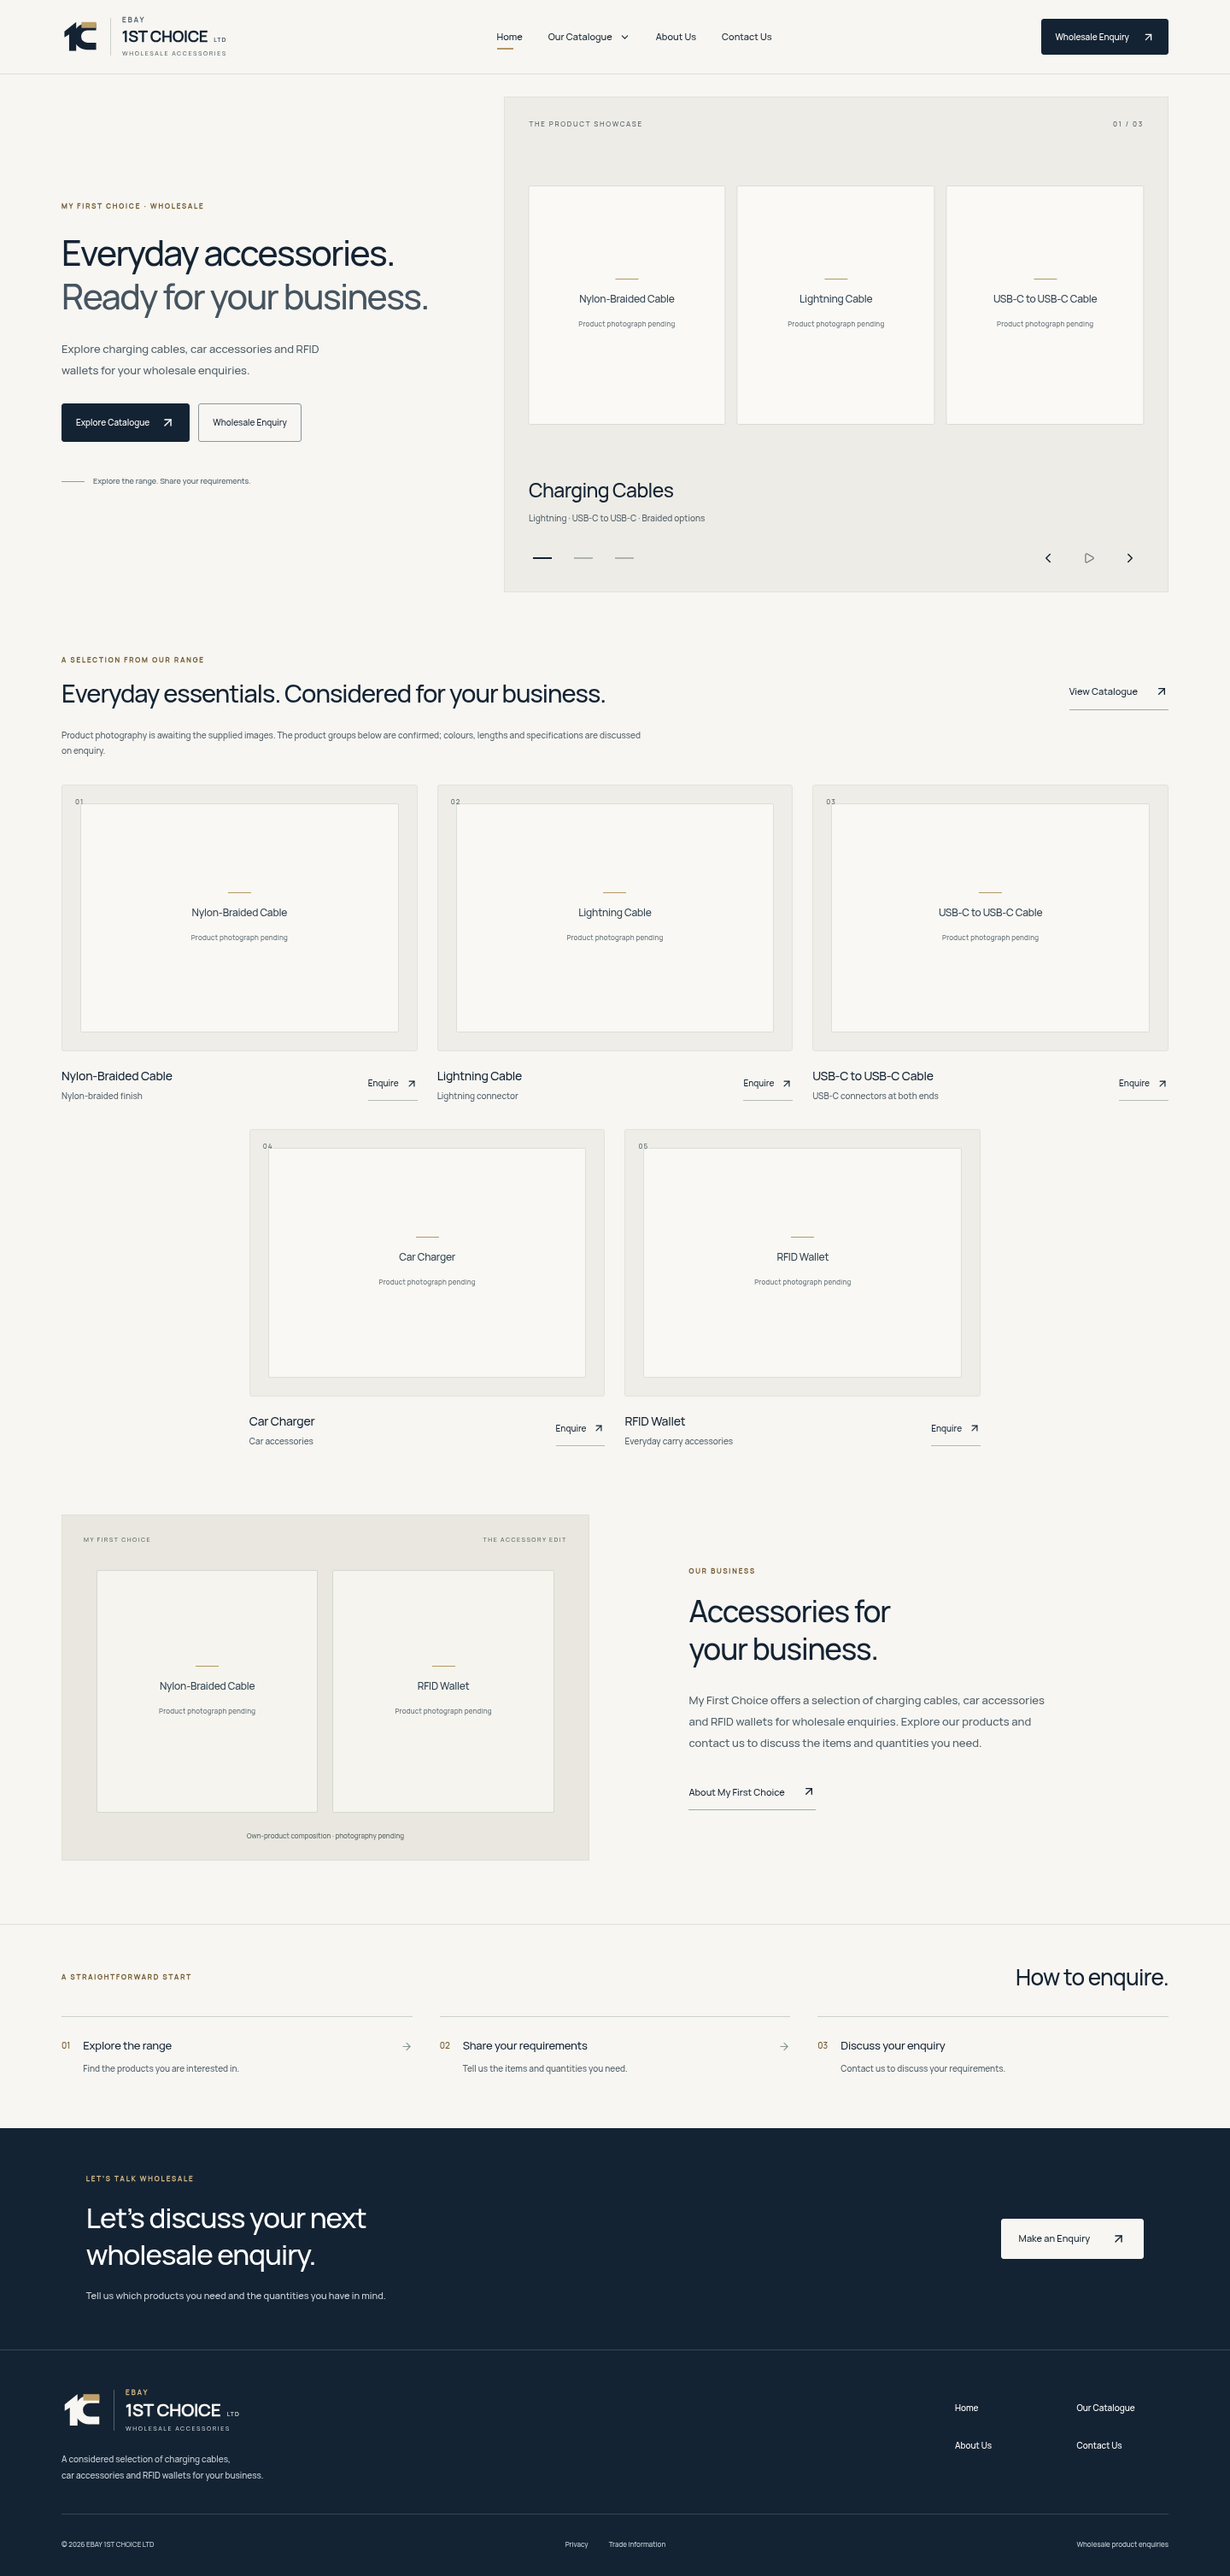
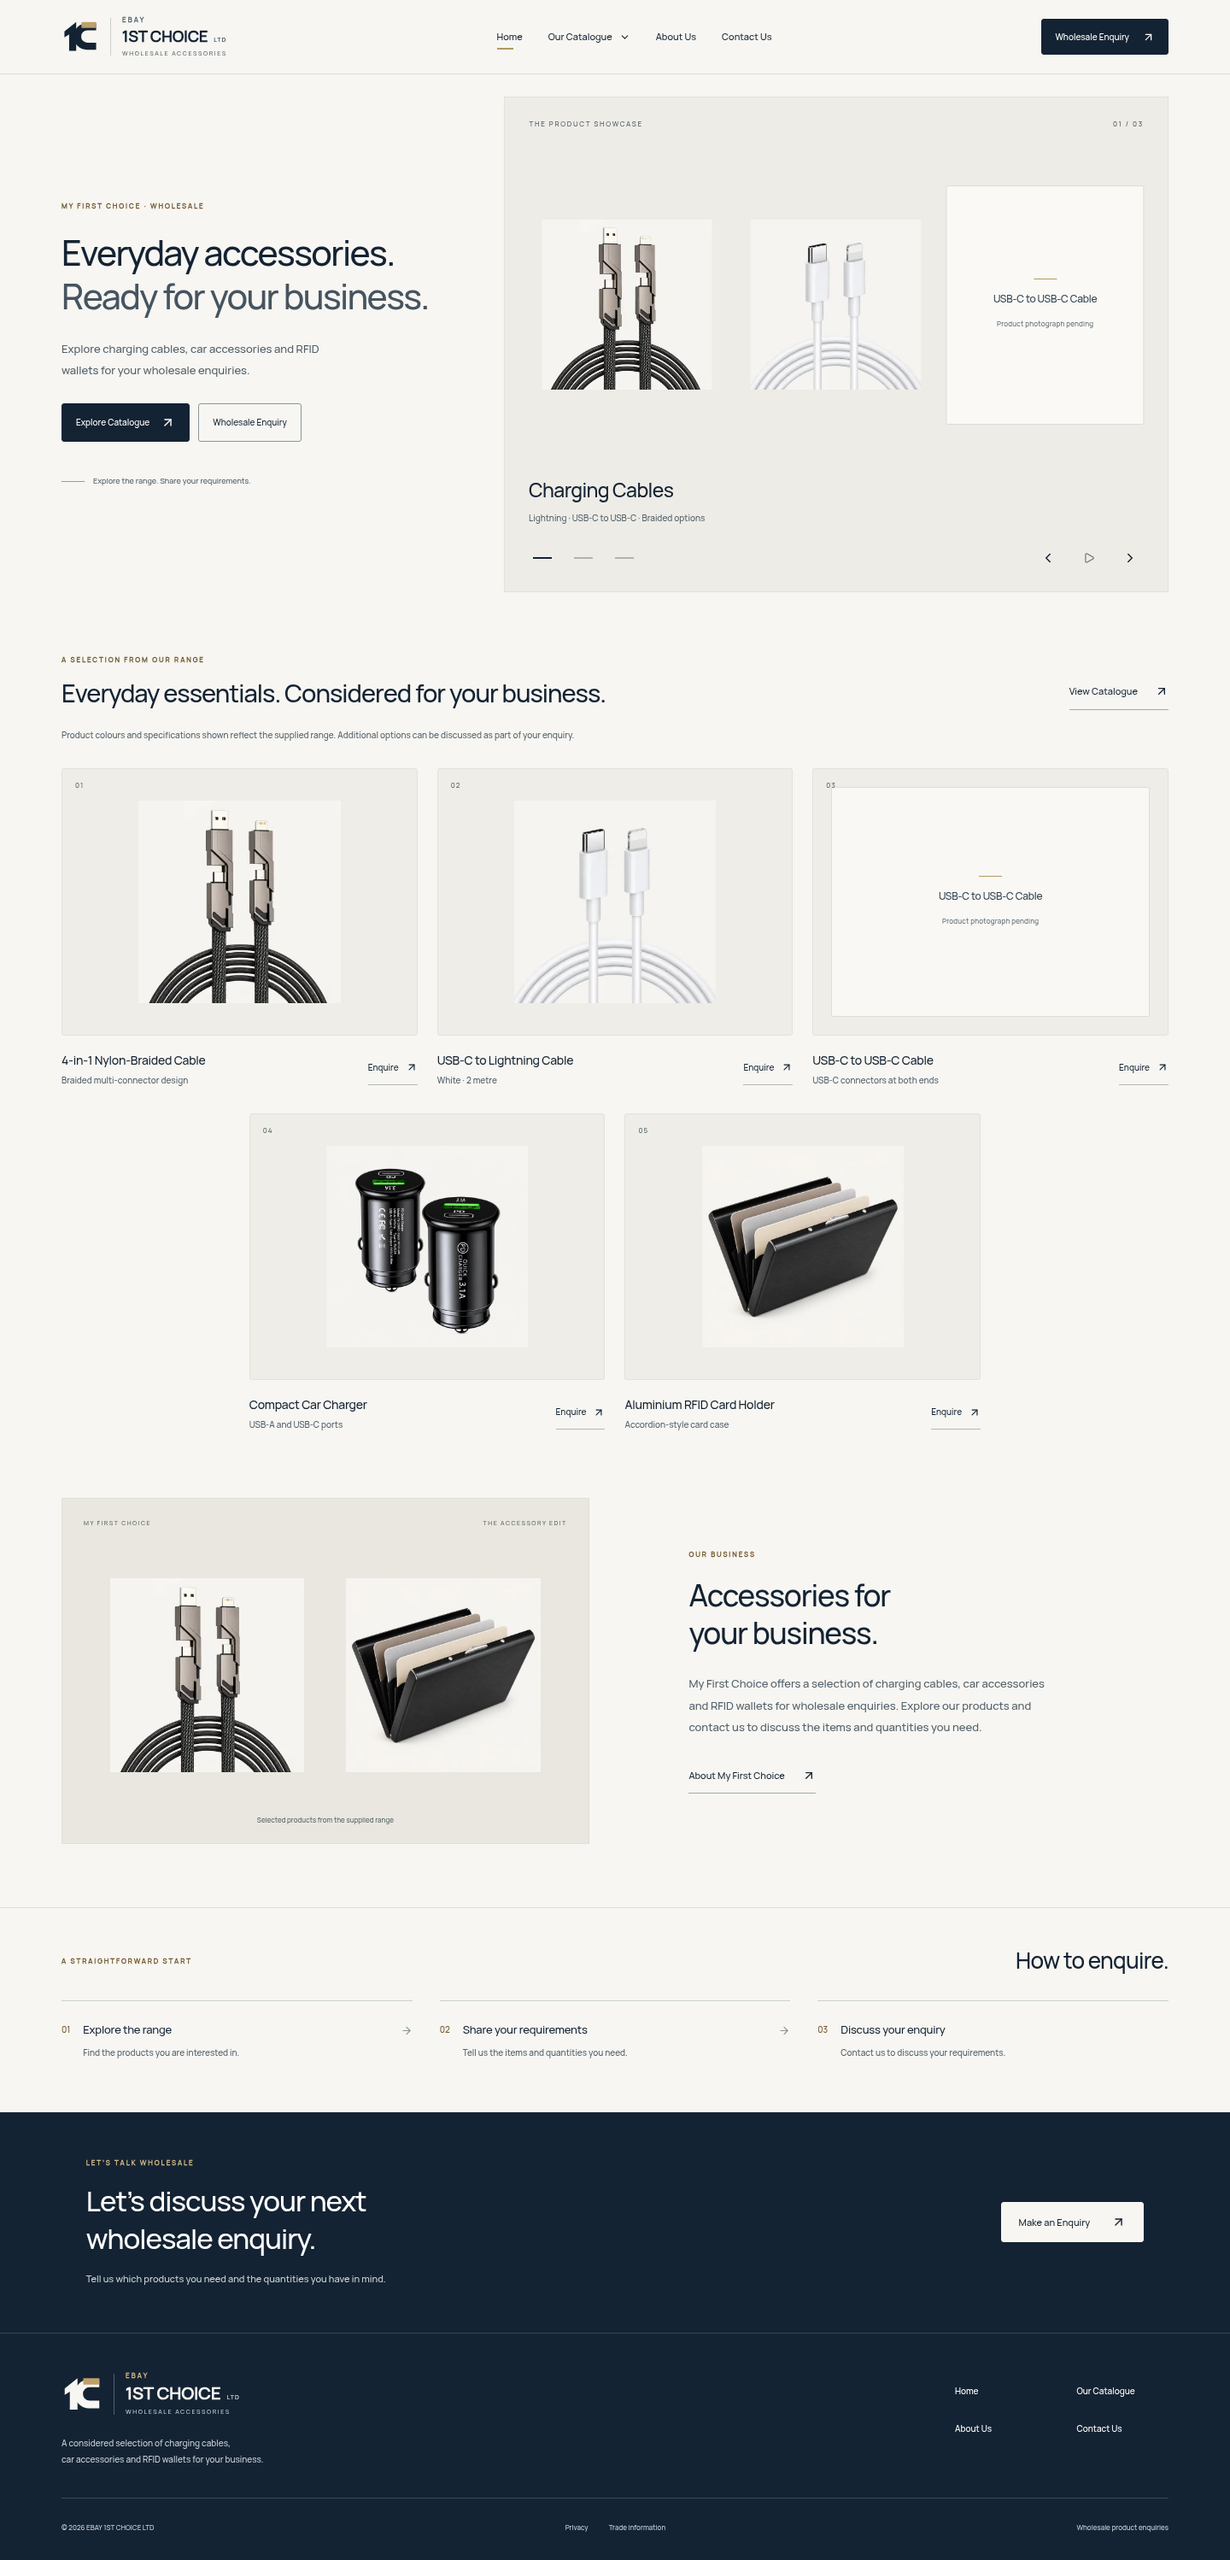
Add supplied product photography to homepage

diff --git a/lib/homepage-content.ts b/lib/homepage-content.ts
@@ -1,5 +1,6 @@
 // Only owner-approved product groups. No wall adapters, inferred brands or stock claims.
-// Supply original product photographs here; never substitute unrelated stock/generated imagery.
+// Owner-supplied product references only. Marketplace overlays were removed for a
+// consistent presentation; no unrelated products or retailer branding are used.
 export type HomeProduct = {
   id: string;
   name: string;
@@ -10,17 +11,17 @@ export type HomeProduct = {
 export const homeProducts: HomeProduct[] = [
   {
     id: "nylon-braided-cable",
-    name: "Nylon-Braided Cable",
-    detail: "Nylon-braided finish",
-    image: null,
-    alt: "Supplied nylon-braided cable, showing its actual connectors and finish",
+    name: "4-in-1 Nylon-Braided Cable",
+    detail: "Braided multi-connector design",
+    image: "/images/homepage/4-in-1-braided-cable.webp",
+    alt: "Dark nylon-braided multi-connector cable with four connector options",
   },
   {
     id: "lightning-cable",
-    name: "Lightning Cable",
-    detail: "Lightning connector",
-    image: null,
-    alt: "Supplied Lightning cable with its actual connectors clearly visible",
+    name: "USB-C to Lightning Cable",
+    detail: "White · 2 metre",
+    image: "/images/homepage/usb-c-to-lightning-cable.webp",
+    alt: "White two-metre cable with USB-C and Lightning connectors",
   },
   {
     id: "usb-c-cable",
@@ -31,17 +32,17 @@ export const homeProducts: HomeProduct[] = [
   },
   {
     id: "car-accessories",
-    name: "Car Charger",
-    detail: "Car accessories",
-    image: null,
-    alt: "Supplied in-car charger, showing its actual ports and finish",
+    name: "Compact Car Charger",
+    detail: "USB-A and USB-C ports",
+    image: "/images/homepage/compact-car-charger.webp",
+    alt: "Compact black in-car charger with USB-A and USB-C ports",
   },
   {
     id: "rfid-wallets",
-    name: "RFID Wallet",
-    detail: "Everyday carry accessories",
-    image: null,
-    alt: "Supplied RFID wallet showing its actual exterior and material",
+    name: "Aluminium RFID Card Holder",
+    detail: "Accordion-style card case",
+    image: "/images/homepage/rfid-card-holder.webp",
+    alt: "Black aluminium RFID card holder with accordion-style compartments",
   },
 ];
 export const homeSlides = [

diff --git a/tests/browser/homepage.spec.ts b/tests/browser/homepage.spec.ts
@@ -13,11 +13,11 @@ test("home exposes the approved product groups, no wall-adapter imagery or retai
   await ready(page);
   await expect(page.getByRole("heading", { level: 1 })).toHaveCount(1);
   for (const name of [
-    "Nylon-Braided Cable",
-    "Lightning Cable",
+    "4-in-1 Nylon-Braided Cable",
+    "USB-C to Lightning Cable",
     "USB-C to USB-C Cable",
-    "Car Charger",
-    "RFID Wallet",
+    "Compact Car Charger",
+    "Aluminium RFID Card Holder",
   ])
     await expect(
       page.getByRole("heading", { level: 3, name, exact: true }),
@@ -25,7 +25,12 @@ test("home exposes the approved product groups, no wall-adapter imagery or retai
   expect(await page.locator("main").innerText()).not.toMatch(
     /Samsung|Apple|iPhone|wall adapter|bestseller|£|\$|Sign up|Add to cart/i,
   );
-  await expect(page.locator("main img")).toHaveCount(0);
+  await expect(page.locator("main img")).toHaveCount(13);
+  await expect(
+    page.locator(
+      '[role="img"][aria-label^="USB-C to USB-C Cable: actual product photograph"]',
+    ),
+  ).toHaveCount(3);
   await expect(
     page.getByRole("link", {
       name: /account|checkout|registration|shopping cart/i,
@@ -109,7 +114,9 @@ test("three slides have stationary copy, next/previous, indicators and swipe", a
   const carousel = page.getByRole("region", {
     name: "Wholesale product ranges",
   });
-  const initial = await page.locator("h1").boundingBox();
+  const heading = page.getByRole("heading", { level: 1 });
+  await expect(heading).toHaveCount(1);
+  const initial = await heading.boundingBox();
   const labels = ["Charging Cables", "Car Accessories", "RFID Wallets"];
   for (let i = 0; i < 3; i++) {
     await carousel
@@ -121,7 +128,8 @@ test("three slides have stationary copy, next/previous, indicators and swipe", a
     await expect(
       carousel.getByRole("button", { name: `Show ${labels[i]} slide` }),
     ).toHaveAttribute("aria-pressed", "true");
-    expect(await page.locator("h1").boundingBox()).toEqual(initial);
+    await expect(heading).toHaveCount(1);
+    expect(await heading.boundingBox()).toEqual(initial);
   }
   await carousel
     .getByRole("button", { name: "Show Charging Cables slide" })

diff --git a/app/page.tsx b/app/page.tsx
@@ -66,9 +66,8 @@ export default function Home() {
           </Link>
         </div>
         <p className={styles.assetNote}>
-          Product photography is awaiting the supplied images. The product
-          groups below are confirmed; colours, lengths and specifications are
-          discussed on enquiry.
+          Product colours and specifications shown reflect the supplied range.
+          Additional options can be discussed as part of your enquiry.
         </p>
         <div id="charging-cables" className={styles.productGrid}>
           {homeProducts.map((product, index) => (
@@ -114,7 +113,7 @@ export default function Home() {
             <ProductImage product={homeProducts[0]} />
             <ProductImage product={homeProducts[4]} />
           </div>
-          <p>Own-product composition · photography pending</p>
+          <p>Selected products from the supplied range</p>
         </div>
         <div className={styles.businessCopy}>
           <span className={styles.eyebrow}>OUR BUSINESS</span>

diff --git a/docs/HOMEPAGE_REDESIGN.md b/docs/HOMEPAGE_REDESIGN.md
@@ -6,27 +6,23 @@ The existing Next.js/React/Tailwind project is retained. Only the `/` homepage i
 
 `components/site-frame.tsx` selects the new homepage chrome only at `/`; other paths continue to use their original header and footer. The existing logo/monogram and company wordmark are reused. Homepage type uses the existing locally hosted Manrope family, with warm white `#F7F6F2`, navy `#142333` and small muted gold `#B39762` details. The single visible H1 and copy follow the supplied brief.
 
-## Product approval and missing photography
+## Product approval and photography
 
-The repository and workspace were inspected, including existing public images, earlier mockups and available files. **No actual product photographs for the five approved types were supplied.** Previous generated mockups, generic illustrations, vehicle photos and wall-charger imagery are not used anywhere on this homepage.
+Four owner-supplied product references are now used: a white USB-C to Lightning cable, a compact black dual-port car charger, an aluminium RFID card holder and a dark 4-in-1 braided cable. Marketplace banners, bank-card branding and promotional text were removed, and the products were placed on a consistent warm-white background. The edited local WebP assets retain the supplied product forms and do not introduce competitor branding or wall adapters.
 
-The page intentionally displays labelled “Product photograph pending” panels. These are not product renderings or substitutes. The photographic showcase is not complete and must not be described as having verified product images.
+The supplied car-charger photograph is black even though its accompanying description said white, so the homepage accurately describes and shows the black item. No white version was invented.
 
-Provide at least these original photographs/cutouts on white, transparent or light-stone backgrounds (ideally 1,600 pixels or more on the long edge):
+One essential photograph is still missing:
 
 | Required photo | What must be clearly shown | Suggested local filename |
 | --- | --- | --- |
-| Nylon-braided cable | Actual braided texture, finish and both actual connectors | `/images/homepage/nylon-braided-cable.webp` |
-| Lightning cable | Actual Lightning connector and the other actual connector; no inferred brand/authenticity | `/images/homepage/lightning-cable.webp` |
 | USB-C to USB-C cable | Both USB-C ends and actual cable finish | `/images/homepage/usb-c-to-usb-c-cable.webp` |
-| Car charger | Actual in-car charger shape, finish and ports; not a wall adapter | `/images/homepage/car-charger.webp` |
-| RFID wallet | Actual exterior, proportions and material | `/images/homepage/rfid-wallet.webp` |
 
-An additional wallet angle/colour/interior photo is optional and may be used only if actually supplied. No interior or product feature is invented. The Our Business composition can reuse the actual cable/wallet images; no warehouse photograph is implied.
+Until that image is supplied, the USB-C to USB-C item alone retains an explicit “Product photograph pending” panel. An additional card-holder angle or colour is optional. The Our Business composition reuses the supplied braided-cable and RFID-holder imagery; no warehouse photograph is implied.
 
 To integrate supplied images, place optimized files under `public/images/homepage/` and set their `image` paths in `lib/homepage-content.ts`. `ProductImage` uses Next/Image with reserved space, responsive sizes and `object-fit: contain`; the first hero cable loads with priority. Offscreen images defer. Loading failures show an honest unavailable panel instead of a broken image or unrelated replacement.
 
-There are five selected products because these are the five explicitly confirmed types. No sixth product, inferred variation, stock level, power rating, length, colour, certification or compatibility claim was invented. Lightning and USB-C to USB-C remain named in the first slide and selected products. No Apple/iPhone or Samsung wall adapter is shown in the hero, cards, background or editorial composition.
+There are five selected products because these are the five explicitly confirmed types. No sixth product, stock level, certification or unsupported compatibility claim was invented. The two-metre length comes from the owner's supplied title; visible connector/port descriptions come from the supplied photographs. Lightning and USB-C to USB-C remain named in the first slide and selected products. No Apple/iPhone or Samsung wall adapter is shown in the hero, cards, background or editorial composition.
 
 ## Homepage structure
 
@@ -59,7 +55,7 @@ A receiving business email/phone has not been supplied. The homepage adds no for
 
 ## Verification
 
-See the accompanying homepage browser tests and locally generated screenshots. Acceptance must distinguish implemented carousel/layout/navigation from the **blocked actual-photography requirement**. The public Vercel host could not be inspected because the execution environment denies the outbound connection; local production rendering is the available evidence.
+See the accompanying homepage browser tests and locally generated screenshots. The public Vercel host could not be inspected because the execution environment denies the outbound connection; local production rendering is the available evidence.
 
 ### Executed checks for this revision
 
@@ -68,10 +64,10 @@ See the accompanying homepage browser tests and locally generated screenshots. A
 - Production-browser suite: **19 tests passed, 0 failed/skipped** (11 homepage cases plus 8 existing-route regression cases).
 - Rendered screenshots reviewed at 375, 768, 1024 and 1440 pixels; no horizontal overflow or automated WCAG A/AA violations in those homepage views.
 - Explicitly exercised dropdown hover/click, keyboard opening, End and Escape, mobile Tab/Shift+Tab focus containment and focus return, submenu expansion, carousel controls, swipe, five-second autoplay, hover/focus pause and reduced-motion manual operation.
-- One H1, correct approved product names, no adapter/stock/generated imagery, no retail/account promotions, valid link/anchor destinations and no new homepage JavaScript/console errors were checked.
+- One H1, correct approved product names, no wall-adapter or stock imagery, no retail/account promotions, valid link/anchor destinations and no new homepage JavaScript/console errors were checked.
 - Existing catalogue/search/filters, cart persistence, quote prerequisite states, CSV validation, endpoint protections, account states and SEO/404 routes continue to pass their previous regression cases. They were not redesigned.
-- `homepage-desktop.png` and `homepage-mobile.png` are local review screenshots with **photo-pending panels**, not evidence of final product photography. The previous `lighthouse-summary.json` and earlier design screenshots belong to the previous revision and are not a fresh performance measurement for this homepage.
-- Real-photo composition, connector visibility, material fidelity and supplied-image optimization cannot be verified until the five original product photographs are provided. No replacement stock or generated products were used to make that acceptance criterion appear complete.
+- The previous `lighthouse-summary.json` belongs to an earlier revision and is not a fresh performance measurement for this homepage.
+- The USB-C to USB-C photography requirement remains incomplete until its original photograph is provided.
 
 ### Logo presentation refinement
 
